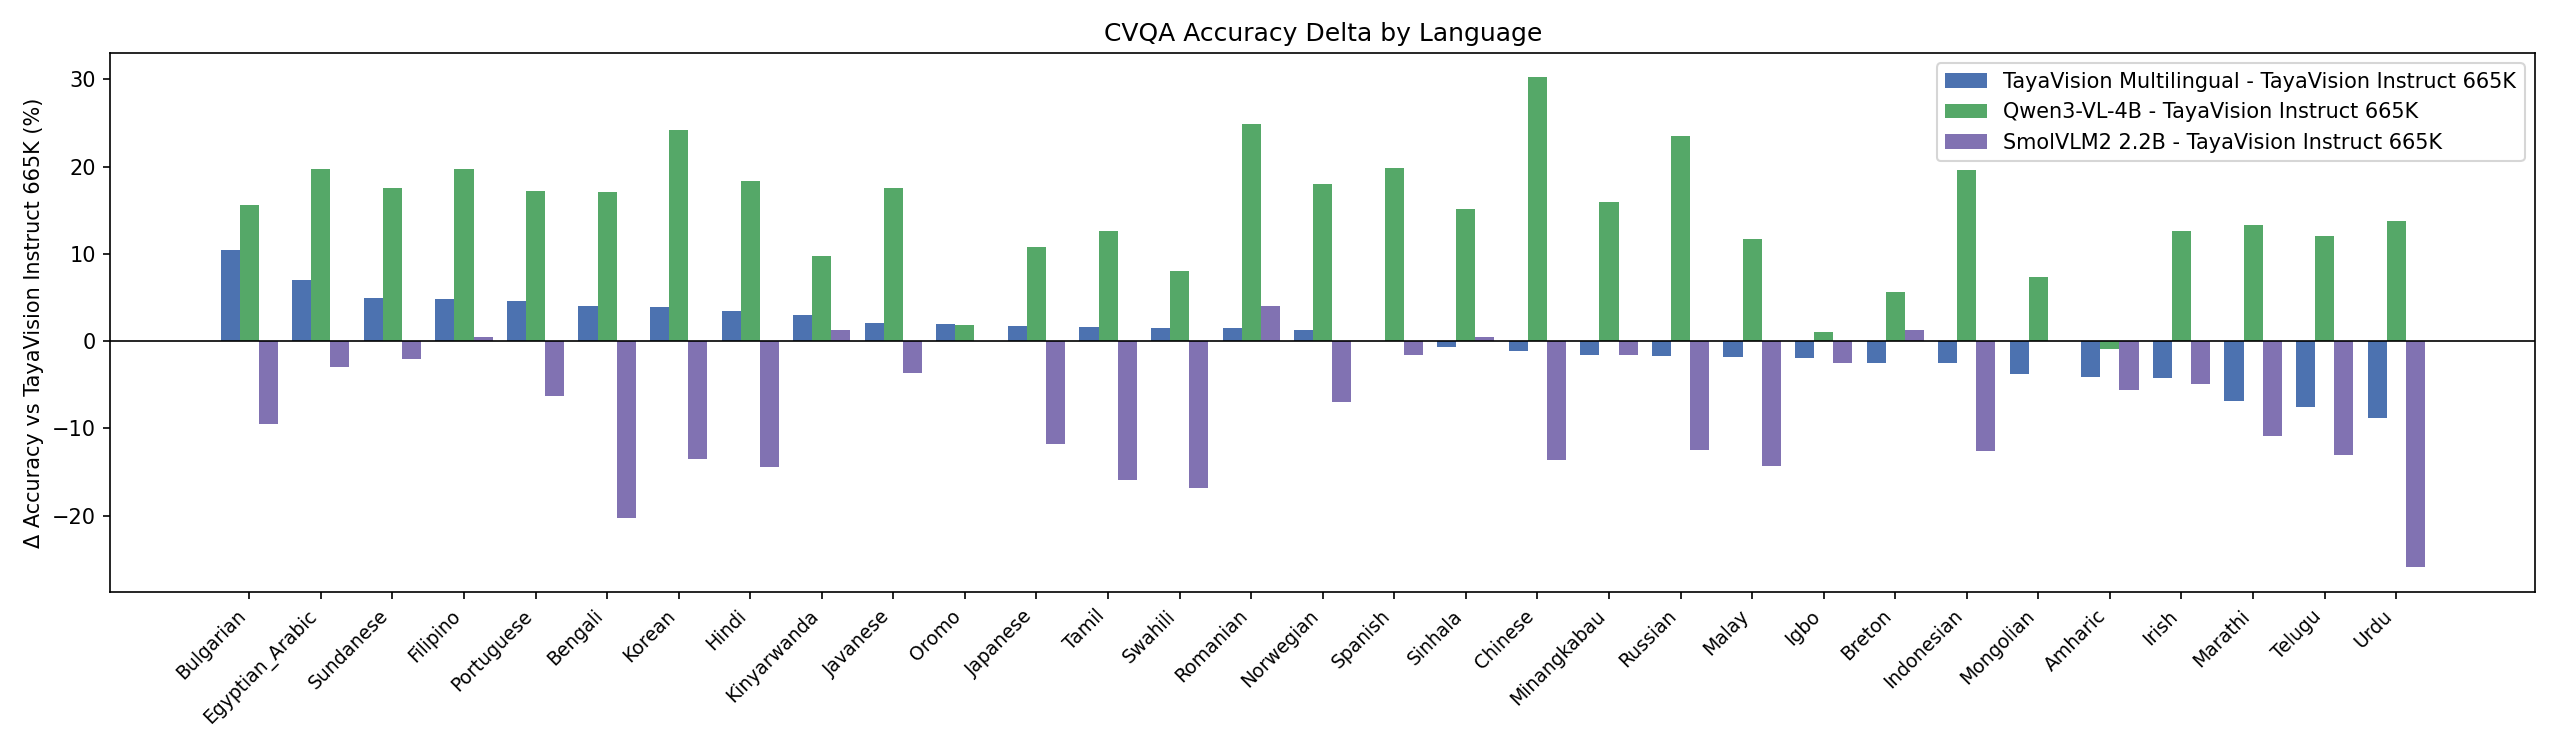
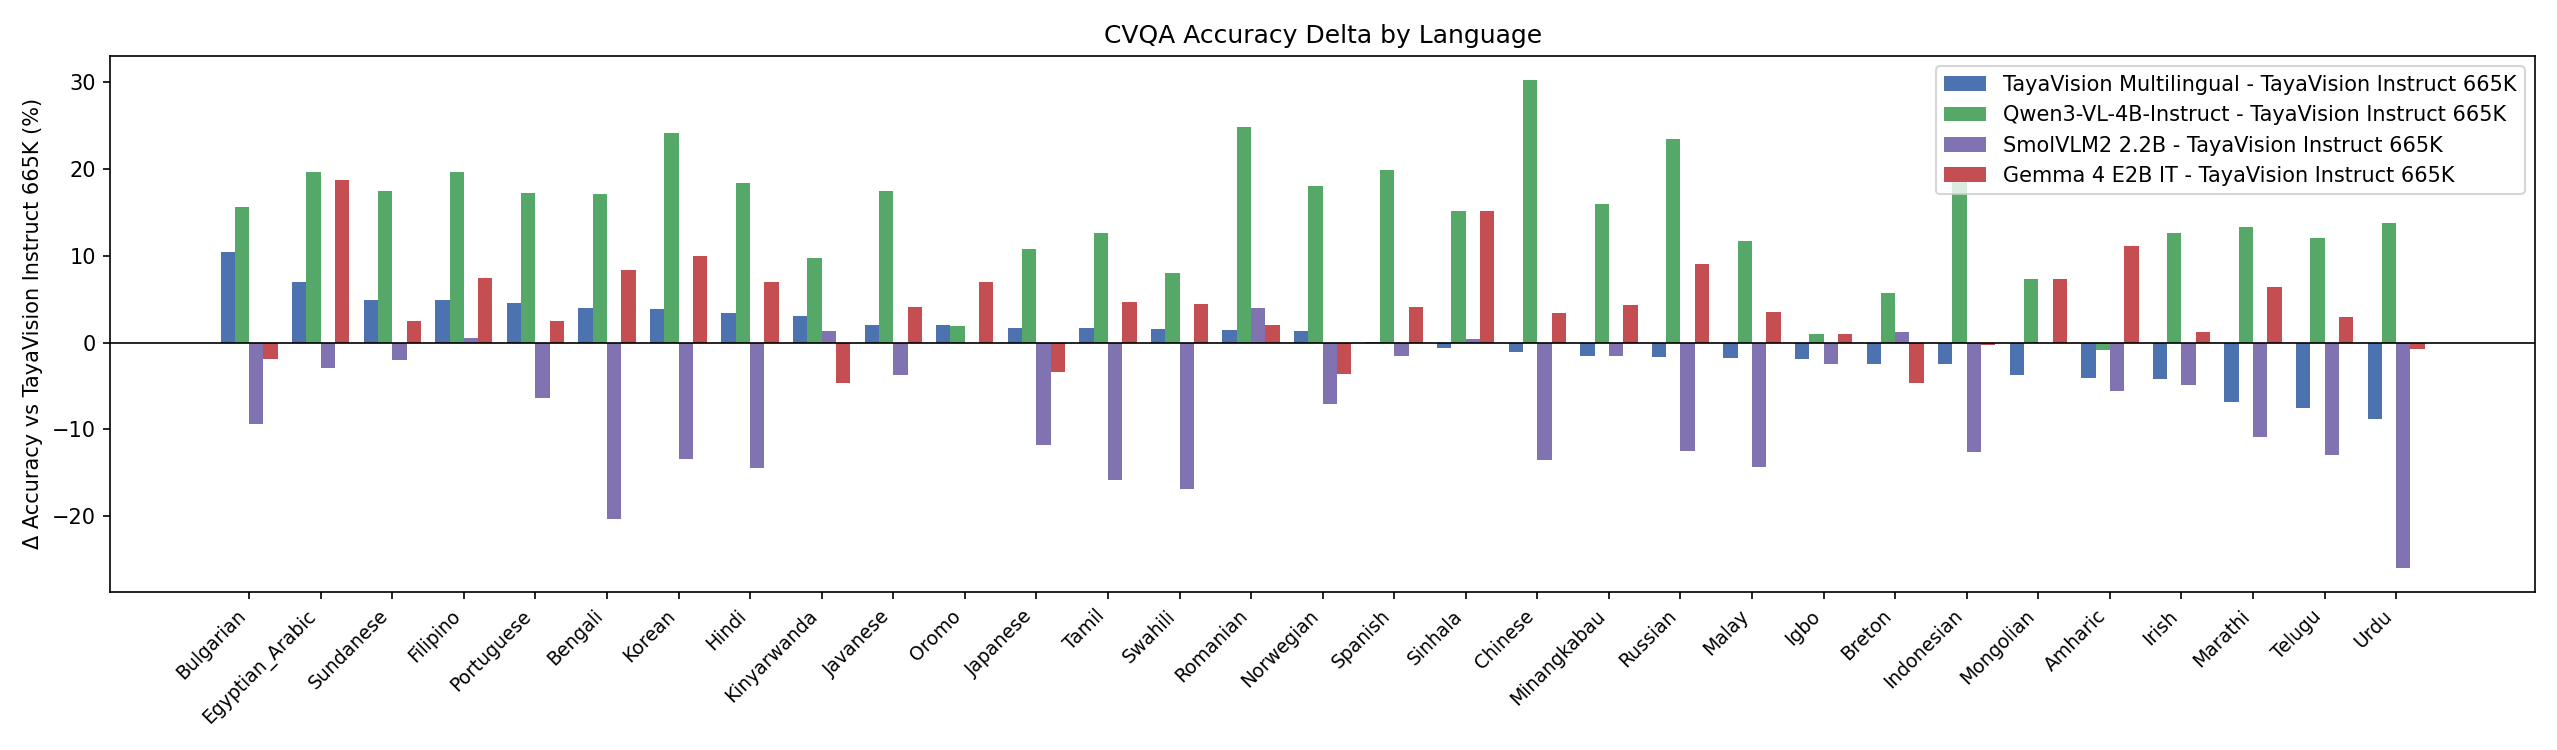
Tighten CVQA answer scoring and refresh figures

diff --git a/evaluation/tasks/cvqa/utils.py b/evaluation/tasks/cvqa/utils.py
@@ -10,6 +10,8 @@ Fields:
     Label: int (0-3, index of correct option)
 """
 
+import re
+
 from datasets import DatasetDict, load_dataset
 
 OPTION_LETTERS = ["A", "B", "C", "D"]
@@ -42,7 +44,7 @@ def cvqa_doc_to_text(doc):
 
     return (
         f"<image>\n{question}\n{options_str}\n"
-        "Answer with the option letter (A, B, C, or D)."
+        "Respond with exactly one letter: A, B, C, or D."
     )
 
 
@@ -53,14 +55,25 @@ def cvqa_doc_to_target(doc):
 
 def cvqa_process_results(doc, results):
     """Check if the model's answer matches the correct option letter."""
-    pred = results[0].strip().upper()
+    pred = _extract_option_letter(results[0])
     gold = OPTION_LETTERS[doc["Label"]]
 
-    # Extract just the first letter if the model outputs more
-    if pred and pred[0] in OPTION_LETTERS:
-        pred = pred[0]
-
     return {"exact_match": float(pred == gold)}
+
+
+def _extract_option_letter(response):
+    """Extract explicit A/B/C/D answers without using arbitrary first letters."""
+    text = str(response).strip()
+    patterns = [
+        r"^[\s*_`]*\(?([ABCD])\)?[\s*_`]*[\.:,-]?\s*$",
+        r"\b(?:answer|option|choice)\s*(?:is|:)?\s*\(?([ABCD])\)?\b",
+        r"\bthe\s+answer\s+is\s*\(?([ABCD])\)?\b",
+    ]
+    for pattern in patterns:
+        match = re.search(pattern, text, flags=re.IGNORECASE)
+        if match:
+            return match.group(1).upper()
+    return None
 
 
 # CVQA English translated task — uses English-translated questions and options for all samples
@@ -70,7 +83,7 @@ def cvqa_en_doc_to_text(doc):
     options_str = "\n".join(f"{OPTION_LETTERS[i]}. {opt}" for i, opt in enumerate(options))
     return (
         f"<image>\n{question}\n{options_str}\n"
-        "Answer with the option letter (A, B, C, or D)."
+        "Respond with exactly one letter: A, B, C, or D."
     )
 
 

diff --git a/evaluation/run_eval.py b/evaluation/run_eval.py
@@ -165,14 +165,28 @@ def main():
         chunk_output_dir.mkdir(parents=True, exist_ok=True)
         samples_jsonl = chunk_output_dir / "samples.jsonl"
 
-        # Resume from a previous partial run: count already-written samples.
+        # Resume from a previous partial run: count already-written samples and
+        # seed the running aggregate with their per-sample metrics.
         n_done = 0
+        sample_metrics: dict[str, list] = {}
         if samples_jsonl.exists():
             with open(samples_jsonl) as _f:
-                n_done = sum(1 for line in _f if line.strip())
+                for line in _f:
+                    line = line.strip()
+                    if not line:
+                        continue
+                    n_done += 1
+                    s = _json2.loads(line)
+                    if args.task == "cvqa" and "doc" in s and "filtered_resps" in s:
+                        from evaluation.tasks.cvqa.utils import cvqa_process_results
+
+                        resp = (s.get("filtered_resps") or [""])[0]
+                        s.update(cvqa_process_results(s["doc"], [resp]))
+                    for k, v in s.items():
+                        if isinstance(v, (int, float)) and k != "doc_id":
+                            sample_metrics.setdefault(k, []).append(v)
             logger.info(f"Resuming: {n_done} samples already written, skipping to chunk {n_done // args.chunk_size + 1}")
 
-        sample_metrics: dict[str, list] = {}
         n_chunks = (total_samples + args.chunk_size - 1) // args.chunk_size
         eval_start_time = time.monotonic()
 

diff --git a/tests/test_evaluation.py b/tests/test_evaluation.py
@@ -79,6 +79,24 @@ class TestCVQATask:
         score = cvqa_process_results(doc, results)
         assert score["exact_match"] == 1.0
 
+    def test_process_results_accepts_explicit_answer_letter(self):
+        """Explicit answer-letter phrasing scores correctly."""
+        from evaluation.tasks.cvqa.utils import cvqa_process_results
+
+        doc = {"Label": 1}  # B
+        results = ["The answer is B."]
+        score = cvqa_process_results(doc, results)
+        assert score["exact_match"] == 1.0
+
+    def test_process_results_rejects_arbitrary_first_letter(self):
+        """Verbose prose should not be parsed by its first character."""
+        from evaluation.tasks.cvqa.utils import cvqa_process_results
+
+        doc = {"Label": 1}  # B
+        results = ["Based on the image, it looks like a temple."]
+        score = cvqa_process_results(doc, results)
+        assert score["exact_match"] == 0.0
+
     def test_process_results_incorrect(self):
         """Incorrect answer scores 0.0."""
         from evaluation.tasks.cvqa.utils import cvqa_process_results
